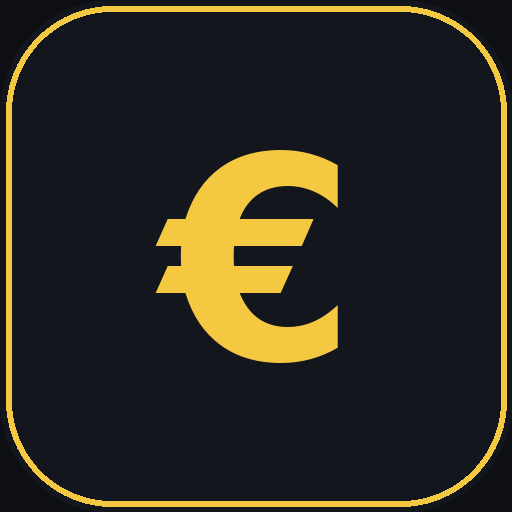
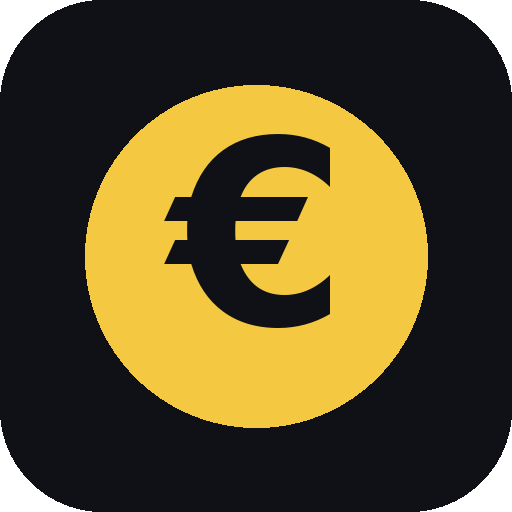
Add files via upload

diff --git a/index.html b/index.html
@@ -6,8 +6,12 @@
 <meta name="theme-color" content="#0F1117">
 <meta name="mobile-web-app-capable" content="yes">
 <meta name="apple-mobile-web-app-capable" content="yes">
+<meta name="apple-mobile-web-app-status-bar-style" content="black-translucent">
 <meta name="apple-mobile-web-app-title" content="MaPaie">
+<meta name="description" content="Pilote ton CA, suis ta paie, gère tes commandes">
 <title>MaPaie — Pilote ton chiffre d'affaires</title>
+<link rel="manifest" href="manifest.json">
+<link rel="apple-touch-icon" href="icon.png">
 <style>
 /* ════════════════════════════════════════════════════════════
    MaPaie v5.0 — Design system
